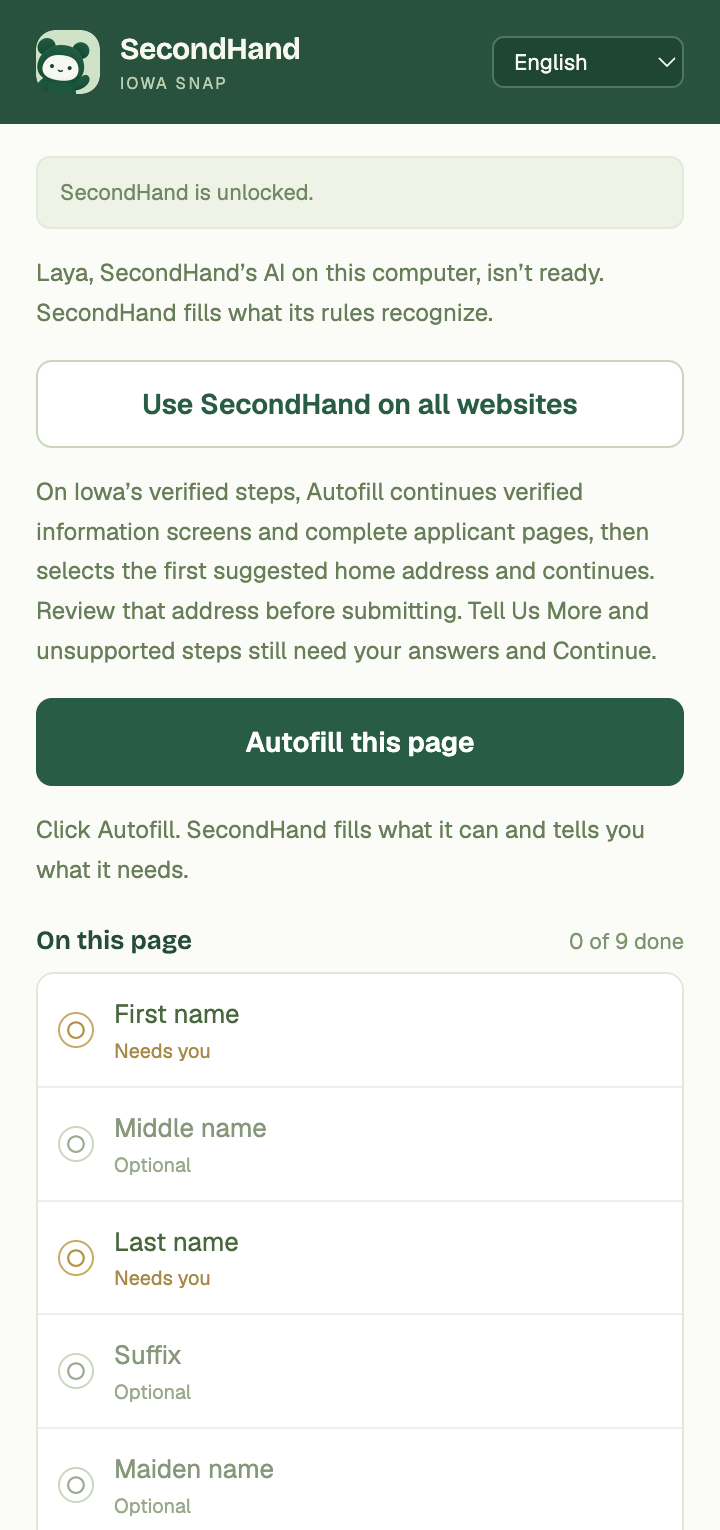
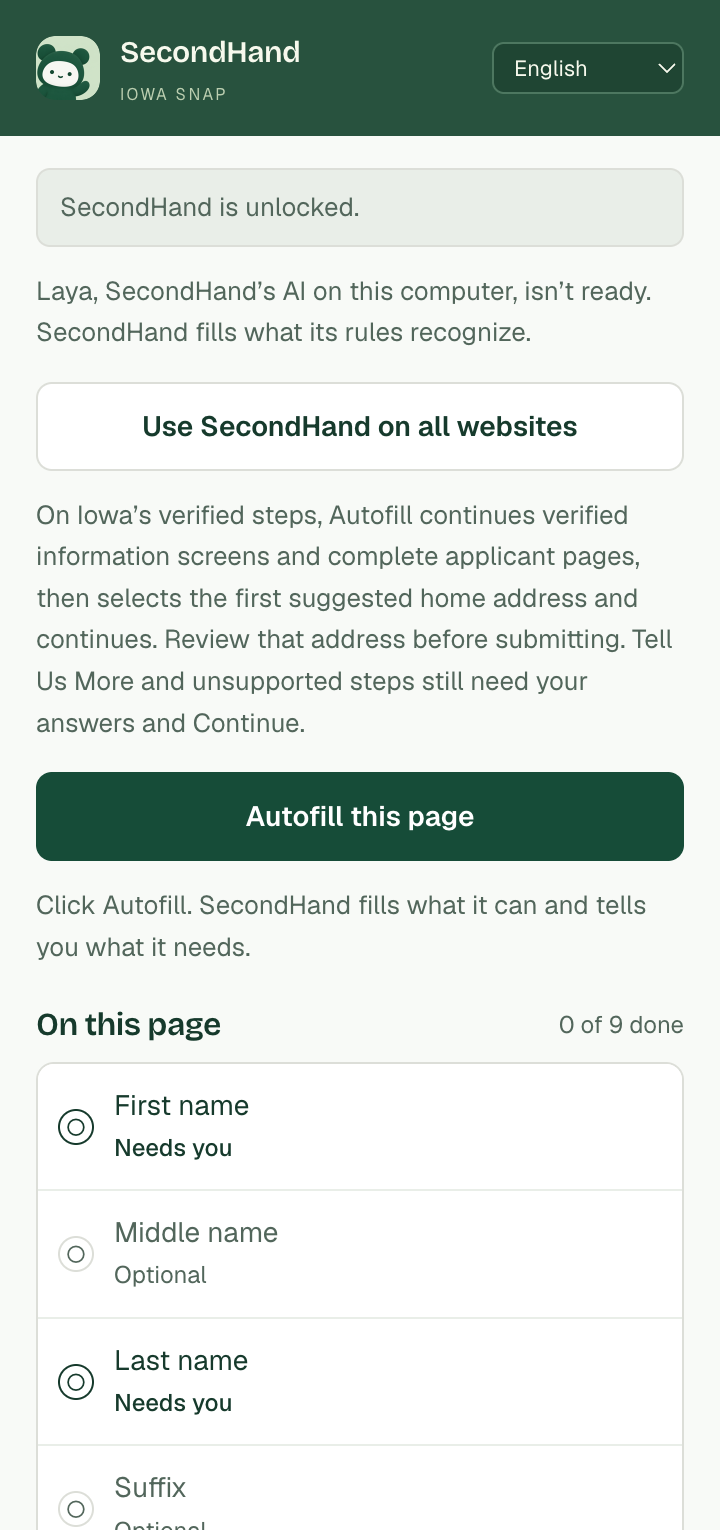
style: use the website's colors and type sizes in the side panel
The side panel takes its colors from the website's tokens instead of its own greens and golds, and its small text grows from 10 and 11 pixels to 12 and 13. Eleven text colors that fell short of WCAG AA contrast now pass, and the keyboard focus ring is the website's green, which shows against the page where the gold ring did not.

diff --git a/extension/panel.css b/extension/panel.css
@@ -3,7 +3,8 @@
 @font-face{font-family:Geist;font-weight:500;font-display:block;src:url(geist-latin-500-normal.woff2) format("woff2");unicode-range:U+0000-00FF,U+0131,U+0152-0153,U+02BB-02BC,U+02C6,U+02DA,U+02DC,U+0304,U+0308,U+0329,U+2000-206F,U+20AC,U+2122,U+2191,U+2193,U+2212,U+2215,U+FEFF,U+FFFD}@font-face{font-family:Geist;font-weight:500;font-display:block;src:url(geist-vietnamese-500-normal.woff2) format("woff2");unicode-range:U+0102-0103,U+0110-0111,U+0128-0129,U+0168-0169,U+01A0-01A1,U+01AF-01B0,U+0300-0301,U+0303-0304,U+0308-0309,U+0323,U+0329,U+1EA0-1EF9,U+20AB}
 @font-face{font-family:Geist;font-weight:600;font-display:block;src:url(geist-latin-600-normal.woff2) format("woff2");unicode-range:U+0000-00FF,U+0131,U+0152-0153,U+02BB-02BC,U+02C6,U+02DA,U+02DC,U+0304,U+0308,U+0329,U+2000-206F,U+20AC,U+2122,U+2191,U+2193,U+2212,U+2215,U+FEFF,U+FFFD}@font-face{font-family:Geist;font-weight:600;font-display:block;src:url(geist-vietnamese-600-normal.woff2) format("woff2");unicode-range:U+0102-0103,U+0110-0111,U+0128-0129,U+0168-0169,U+01A0-01A1,U+01AF-01B0,U+0300-0301,U+0303-0304,U+0308-0309,U+0323,U+0329,U+1EA0-1EF9,U+20AB}
 @font-face{font-family:"Bricolage Grotesque Variable";font-weight:200 800;font-display:block;src:url(bricolage-grotesque-latin-wght-normal.woff2) format("woff2-variations");unicode-range:U+0000-00FF,U+0131,U+0152-0153,U+02BB-02BC,U+02C6,U+02DA,U+02DC,U+0304,U+0308,U+0329,U+2000-206F,U+20AC,U+2122,U+2191,U+2193,U+2212,U+2215,U+FEFF,U+FFFD}@font-face{font-family:"Bricolage Grotesque Variable";font-weight:200 800;font-display:block;src:url(bricolage-grotesque-vietnamese-wght-normal.woff2) format("woff2-variations");unicode-range:U+0102-0103,U+0110-0111,U+0128-0129,U+0168-0169,U+01A0-01A1,U+01AF-01B0,U+0300-0301,U+0303-0304,U+0308-0309,U+0323,U+0329,U+1EA0-1EF9,U+20AB}
-:root{--text:Geist,system-ui,-apple-system,"Segoe UI",sans-serif;--display:"Bricolage Grotesque Variable",var(--text);color:#254b39;background:#fbfcf7;color-scheme:light;font-size:12px;font-synthesis:none}*{box-sizing:border-box}html,body{margin:0;width:100%;height:100%;overflow:hidden}body{display:flex;flex-direction:column;background:#fbfcf7;font-family:var(--text)}button{font:inherit;cursor:pointer;-webkit-tap-highlight-color:transparent}button:disabled{cursor:default;opacity:.48}button:focus-visible{outline:3px solid #d5b668;outline-offset:2px}p,h1,h2{margin:0}[hidden]{display:none!important}
+/* The website's colors (website/app/globals.css), and the app's red for a problem. */
+:root{--background:#f8faf7;--foreground:#163a2c;--primary:#164c38;--pressed:#0c3323;--muted:#e9eee8;--muted-foreground:#52665b;--border:#dcded8;--ring:#337d5b;--danger:#a23c38;--text:Geist,system-ui,-apple-system,"Segoe UI",sans-serif;--display:"Bricolage Grotesque Variable",var(--text);color:var(--foreground);background:var(--background);color-scheme:light;font-size:12px;font-synthesis:none}*{box-sizing:border-box}html,body{margin:0;width:100%;height:100%;overflow:hidden}body{display:flex;flex-direction:column;background:var(--background);font-family:var(--text)}button{font:inherit;cursor:pointer;-webkit-tap-highlight-color:transparent}button:disabled{cursor:default;opacity:.48}button:focus-visible{outline:3px solid #d5b668;outline-offset:2px}p,h1,h2{margin:0}[hidden]{display:none!important}
 .brand{width:32px;height:32px;border-radius:30%;display:block;flex-shrink:0}
 /* On-page widget: an extension iframe the page cannot script. */
 body.launcher-surface{background:transparent}#launcher{width:100%;height:100%;display:flex;align-items:center;justify-content:center}#widget{width:max-content;max-width:272px;margin-inline-start:auto}#widget.outdated{width:100%}
@@ -16,30 +17,30 @@ body.launcher-surface{background:transparent}#launcher{width:100%;height:100%;di
 .widget.outdated .widget-row{display:none}.widget.outdated{padding:4px 8px}.widget.outdated #widget-text{-webkit-line-clamp:3}
 .pill{width:46px;height:46px;flex:none;padding:0;border:1px solid #cddcc1;border-radius:50%;background:#28543f;display:flex;align-items:center;justify-content:center}.pill .brand{width:30px;height:30px}
 /* Chrome's native side panel. */
-#sidepanel{height:100%;display:flex;flex-direction:column;overflow:hidden}
+#sidepanel{height:100%;display:flex;flex-direction:column;overflow:hidden;font-size:13px;line-height:1.6;-webkit-font-smoothing:antialiased}#sidepanel :focus-visible{outline:3px solid var(--ring);outline-offset:2px}
 .panel-header{flex-shrink:0;display:flex;align-items:center;gap:10px;padding:14px 18px;background:#28523e;color:#f7f9ed;min-height:62px}.header-copy strong{display:block;font-family:var(--display);font-size:15px;font-weight:600;letter-spacing:-.25px}.header-copy>span{display:block;font-size:8px;letter-spacing:1.2px;color:#bbceb0;margin-top:3px}
-main{flex:1;overflow:auto;padding:16px 18px 0;scrollbar-width:thin;scrollbar-color:#c6d2bb transparent}
-.desktop-row{display:flex;justify-content:space-between;align-items:center;gap:8px;padding:9px 11px;background:#eff3e7;border:1px solid #e3ead9;border-radius:7px}.desktop-row>span{font-size:11px;color:#728763;line-height:1.5}.desktop-row.error{background:#fff3eb;border-color:#e8d9c8}.desktop-row.error>span{color:#9e6850}
-.text-button{font-size:11px;font-weight:600;background:none;border:0;padding:4px 0;color:#638055;white-space:nowrap}.text-button:hover{text-decoration:underline}.site-off{margin-top:6px}
-.button{border:1px solid transparent;border-radius:8px;min-height:44px;padding:10px 12px;font-size:14px;font-weight:600;margin-top:14px}.primary{background:#285c45;color:#fff}.primary:hover:enabled{background:#204b38}.full{width:100%}
-.status{font-size:12px;line-height:1.65;color:#687e59;margin-top:12px;overflow-wrap:anywhere}.status.error{color:#a56049}
-.checklist-section{margin:18px 0 16px}.fields-heading{display:flex;justify-content:space-between;align-items:center;margin-bottom:8px}.fields-heading h2{font-family:var(--display);font-size:13px;font-weight:600}#checklist-summary{font-size:11px;color:#7e9470}
-.page-checklist{background:#fff;border:1px solid #e0e7d7;border-radius:9px;overflow:auto;max-height:360px;scrollbar-width:thin;scrollbar-color:#cbd7bf transparent}
-.checklist-item{display:flex;align-items:center;gap:10px;width:100%;border:0;border-bottom:1px solid #edf0e6;background:#fff;padding:11px 10px;text-align:start;color:#59764b}.checklist-item:last-child{border-bottom:0}.checklist-item:hover:enabled{background:#f5f8ee}.checklist-item:disabled{opacity:1;cursor:default}
-.checklist-mark{display:flex;align-items:center;justify-content:center;flex-shrink:0;width:18px;height:18px;border:1px solid #cbd7bf;border-radius:50%;color:#9eab92;font-size:11px}.checklist-item.complete .checklist-mark{color:#fff;background:#628c51;border-color:#628c51}.checklist-item.missing .checklist-mark,.checklist-item.manual .checklist-mark{border-color:#c8ab63;color:#b39447}
-.checklist-copy{flex:1;min-width:0}.checklist-label{display:block;font-size:13px;line-height:1.45;color:#49663c}.checklist-detail{display:block;font-size:10px;color:#9aa98b;margin-top:2px}.checklist-item.missing .checklist-detail,.checklist-item.manual .checklist-detail{color:#a68a48}.checklist-item.optional .checklist-label{color:#86977a}
-footer{border-top:1px solid #e6ebde;padding:12px 0 14px}footer p{font-size:10px;line-height:1.6;color:#97a38a}
+main{flex:1;overflow:auto;padding:16px 18px 0;scrollbar-width:thin;scrollbar-color:var(--border) transparent}
+.desktop-row{display:flex;justify-content:space-between;align-items:center;gap:8px;padding:9px 11px;background:var(--muted);border:1px solid var(--border);border-radius:7px}.desktop-row>span{color:var(--muted-foreground);line-height:1.5}.desktop-row.error{background:#fff}.desktop-row.error>span{color:var(--foreground)}
+.text-button{font-size:13px;font-weight:600;background:none;border:0;padding:4px 0;color:var(--foreground);white-space:nowrap}.text-button:hover{text-decoration:underline}.site-off{margin-top:6px}
+.button{border:1px solid transparent;border-radius:8px;min-height:44px;padding:10px 12px;font-size:14px;font-weight:600;margin-top:14px}.primary{background:var(--primary);color:#fff}.primary:hover:enabled{background:var(--pressed)}.full{width:100%}
+.status{color:var(--muted-foreground);margin-top:12px;overflow-wrap:anywhere}.status.error{color:var(--danger)}
+.checklist-section{margin:18px 0 16px}.fields-heading{display:flex;justify-content:space-between;align-items:center;margin-bottom:8px}.fields-heading h2{font-family:var(--display);font-size:16px;font-weight:600;letter-spacing:-.3px;line-height:1.3}.fields-heading span{font-size:12px;color:var(--muted-foreground)}
+.page-checklist{background:#fff;border:1px solid var(--border);border-radius:9px;overflow:auto;max-height:360px;scrollbar-width:thin;scrollbar-color:var(--border) transparent}
+.checklist-item{display:flex;align-items:center;gap:10px;width:100%;border:0;border-bottom:1px solid var(--muted);background:#fff;padding:11px 10px;text-align:start;color:var(--foreground)}.checklist-item:last-child{border-bottom:0}.checklist-item:hover:enabled{background:var(--background)}.checklist-item:disabled{opacity:1;cursor:default}
+.checklist-mark{display:flex;align-items:center;justify-content:center;flex-shrink:0;width:18px;height:18px;border:1px solid var(--border);border-radius:50%;color:var(--muted-foreground);font-size:11px;line-height:1}.checklist-item.complete .checklist-mark{color:#fff;background:var(--ring);border-color:var(--ring)}.checklist-item.missing .checklist-mark,.checklist-item.manual .checklist-mark{border-color:var(--foreground);color:var(--foreground)}
+.checklist-copy{flex:1;min-width:0}.checklist-label{display:block;font-size:14px;line-height:1.4}.checklist-detail{display:block;font-size:12px;color:var(--muted-foreground);margin-top:2px}.checklist-item.missing .checklist-detail,.checklist-item.manual .checklist-detail{color:var(--foreground);font-weight:500}.checklist-item.optional .checklist-label{color:var(--muted-foreground)}
+footer{border-top:1px solid var(--border);padding:12px 0 14px}footer p{font-size:12px;color:var(--muted-foreground)}
 @media(prefers-reduced-motion:reduce){*{scroll-behavior:auto!important}}
 /* The applicant's language and the page's questions in it. */
-.language-picker{margin-inline-start:auto;max-width:96px;font:inherit;font-size:11px;color:#f7f9ed;background:#1f4533;border:1px solid #4d7760;border-radius:6px;padding:4px 6px;cursor:pointer}.language-picker:focus-visible{outline:3px solid #d5b668;outline-offset:2px}
+.language-picker{margin-inline-start:auto;max-width:96px;font:inherit;font-size:11px;color:#f7f9ed;background:#1f4533;border:1px solid #4d7760;border-radius:6px;padding:4px 6px;cursor:pointer}
 #need-you{color:#f2d58d;font-weight:600}#translate-offer{color:#f2d58d;align-self:flex-start}.visually-hidden{position:absolute!important;width:1px;height:1px;overflow:hidden;clip-path:inset(50%);white-space:nowrap}
-.secondary{background:#fff;color:#285c45;border-color:#c7d6bd}.secondary:hover:enabled{background:#f5f8ee}
+.secondary{background:#fff;color:var(--foreground);border-color:var(--border)}.secondary:hover:enabled{background:var(--muted)}
 .questions-pending{margin:0 0 8px}
 .checklist-item.info{cursor:default}
 /* What this page says: key points Chrome writes on this computer, and the widget's one line of them. */
-.summary-caveat{font-size:10px;line-height:1.5;color:#8b9b7d;margin:0 0 8px}.summary-english{margin:8px 0 0}
-.summary-card{background:#fff;border:1px solid #e0e7d7;border-radius:9px;padding:2px 12px}
-.summary-group{padding:8px 0;border-bottom:1px solid #edf0e6}.summary-group:last-child{border-bottom:0}
-.summary-group h3{margin:0 0 4px;font-size:11px;font-weight:600;color:#728763}.summary-group ul{margin:0;padding-inline-start:18px}
-.summary-group li{font-size:13px;line-height:1.5;color:#49663c;margin:3px 0}.summary-empty{font-size:12px;line-height:1.5;color:#a68a48}
-.save-hint{font-size:11px;line-height:1.45;color:#7e9470;margin:0 0 8px}.save-row{cursor:default}.save-row .button{flex-shrink:0;width:auto;padding:6px 10px;font-size:12px}
+.summary-caveat{font-size:12px;color:var(--muted-foreground);margin:0 0 8px}.summary-english{margin:8px 0 0}
+.summary-card{background:#fff;border:1px solid var(--border);border-radius:9px;padding:2px 12px}
+.summary-group{padding:8px 0;border-bottom:1px solid var(--muted)}.summary-group:last-child{border-bottom:0}
+.summary-group h3{margin:0 0 4px;font-size:12px;font-weight:600;color:var(--muted-foreground)}.summary-group ul{margin:0;padding-inline-start:18px}
+.summary-group li{font-size:14px;line-height:1.5;margin:3px 0}.summary-empty{color:var(--muted-foreground)}
+.save-hint{font-size:12px;color:var(--muted-foreground);margin:0 0 8px}.save-row{cursor:default}.save-row .button{flex-shrink:0;width:auto;padding:6px 10px;font-size:13px}
